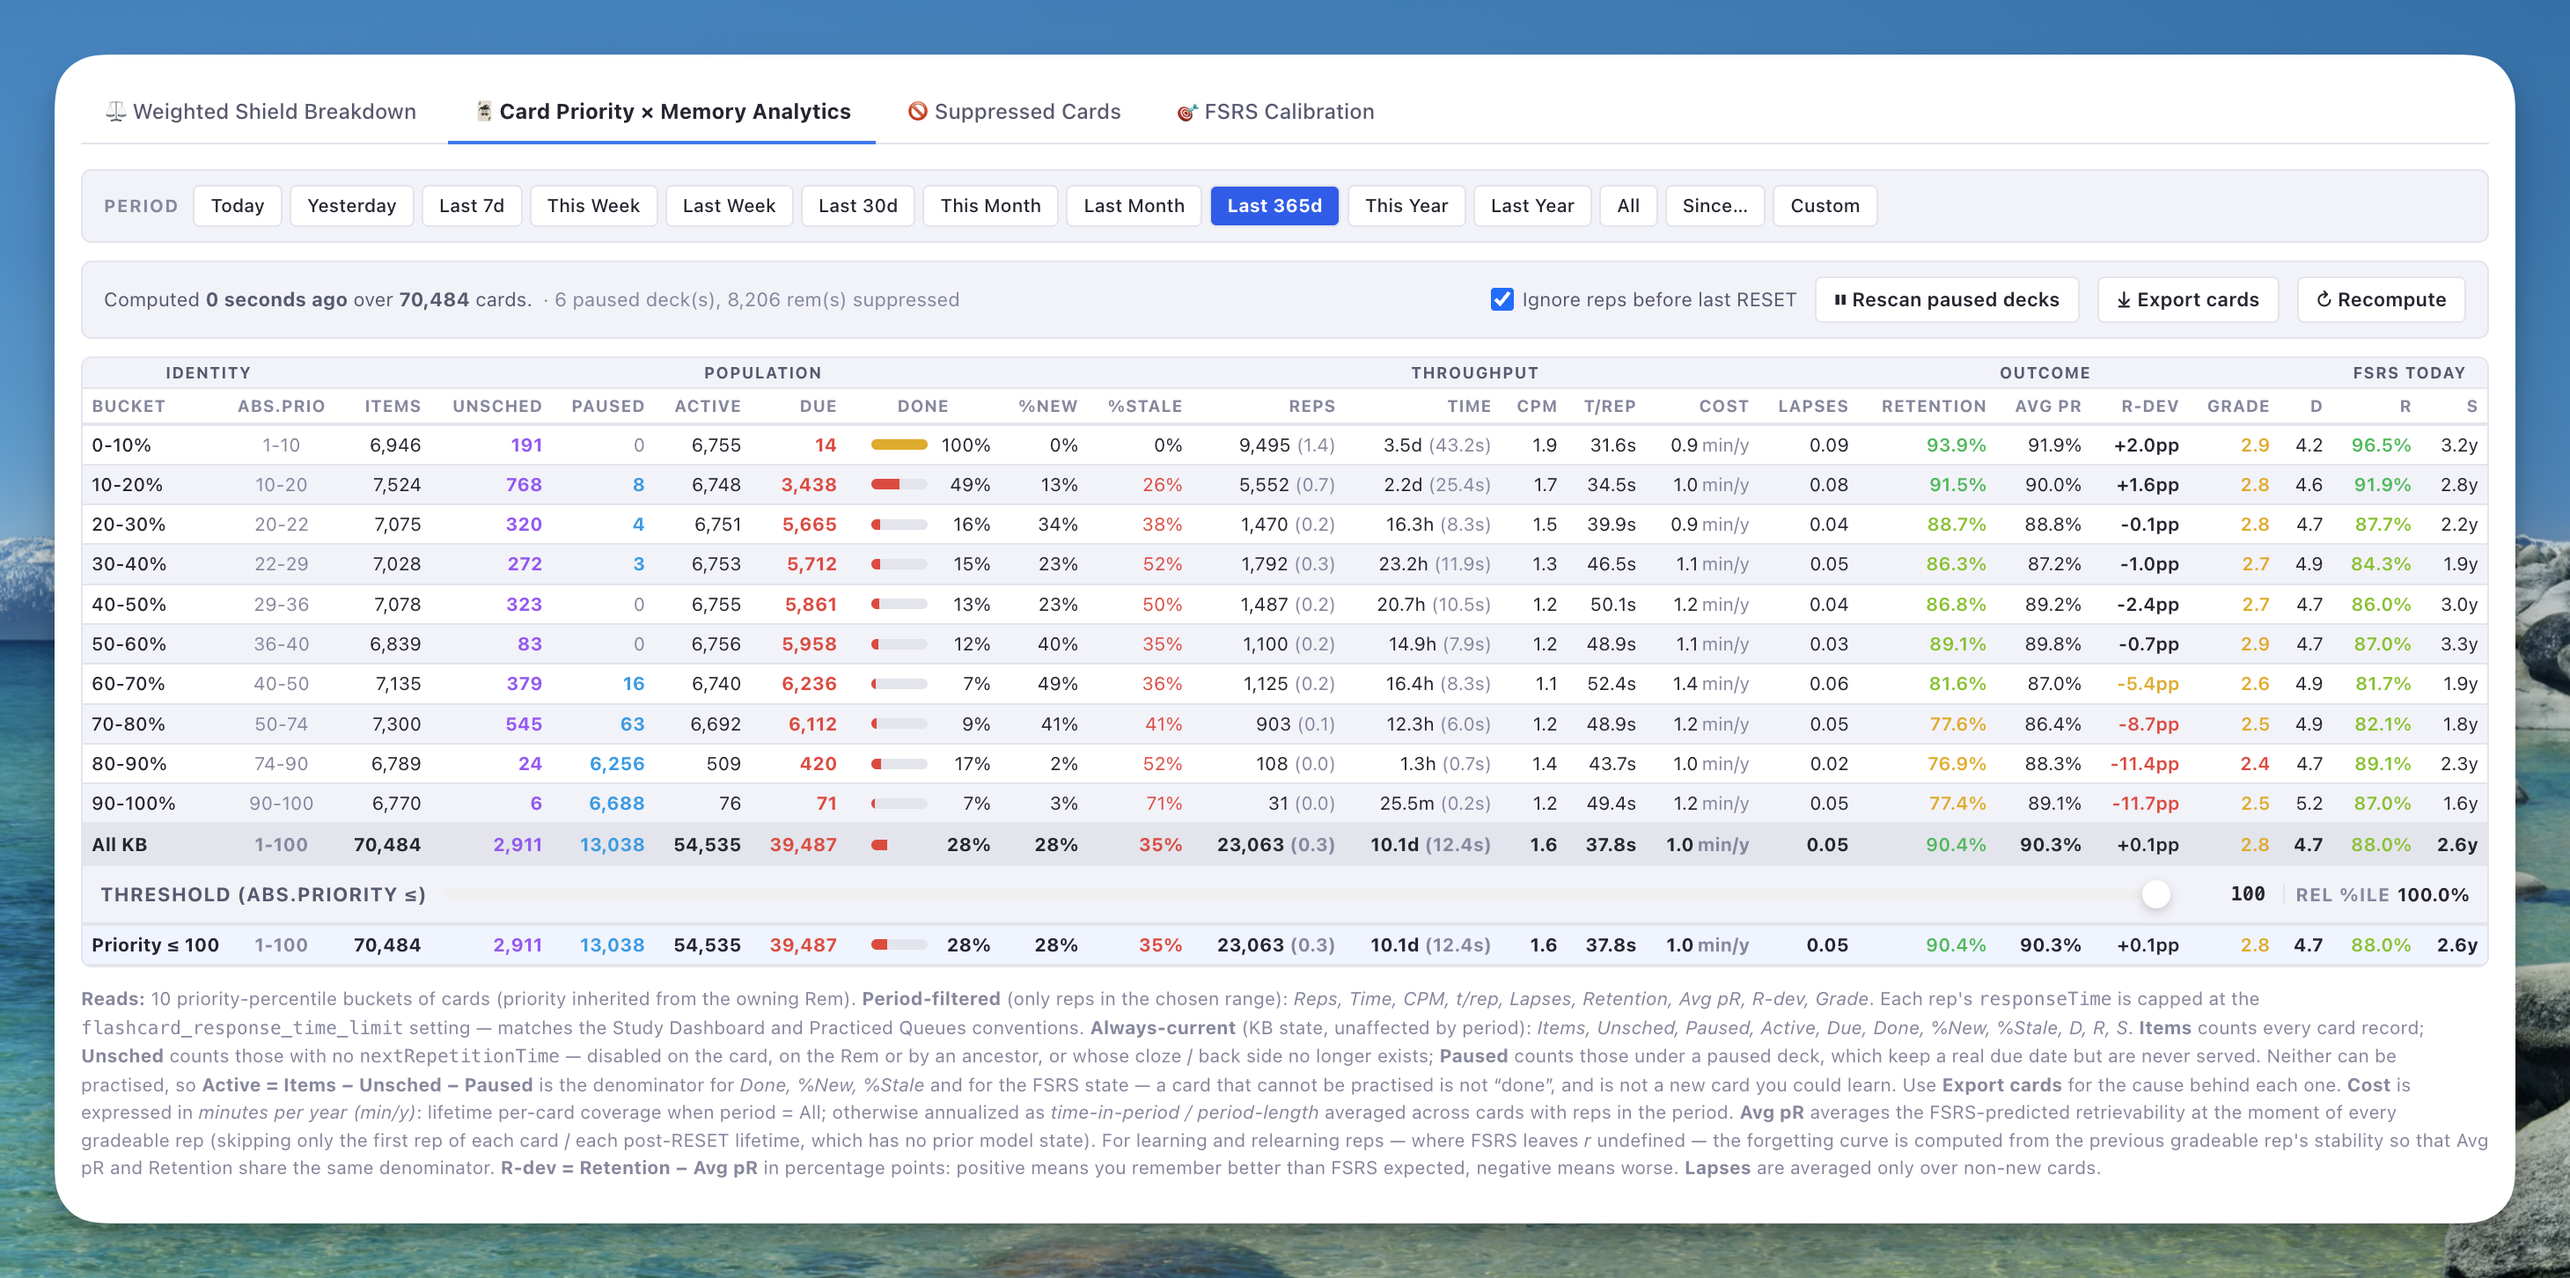
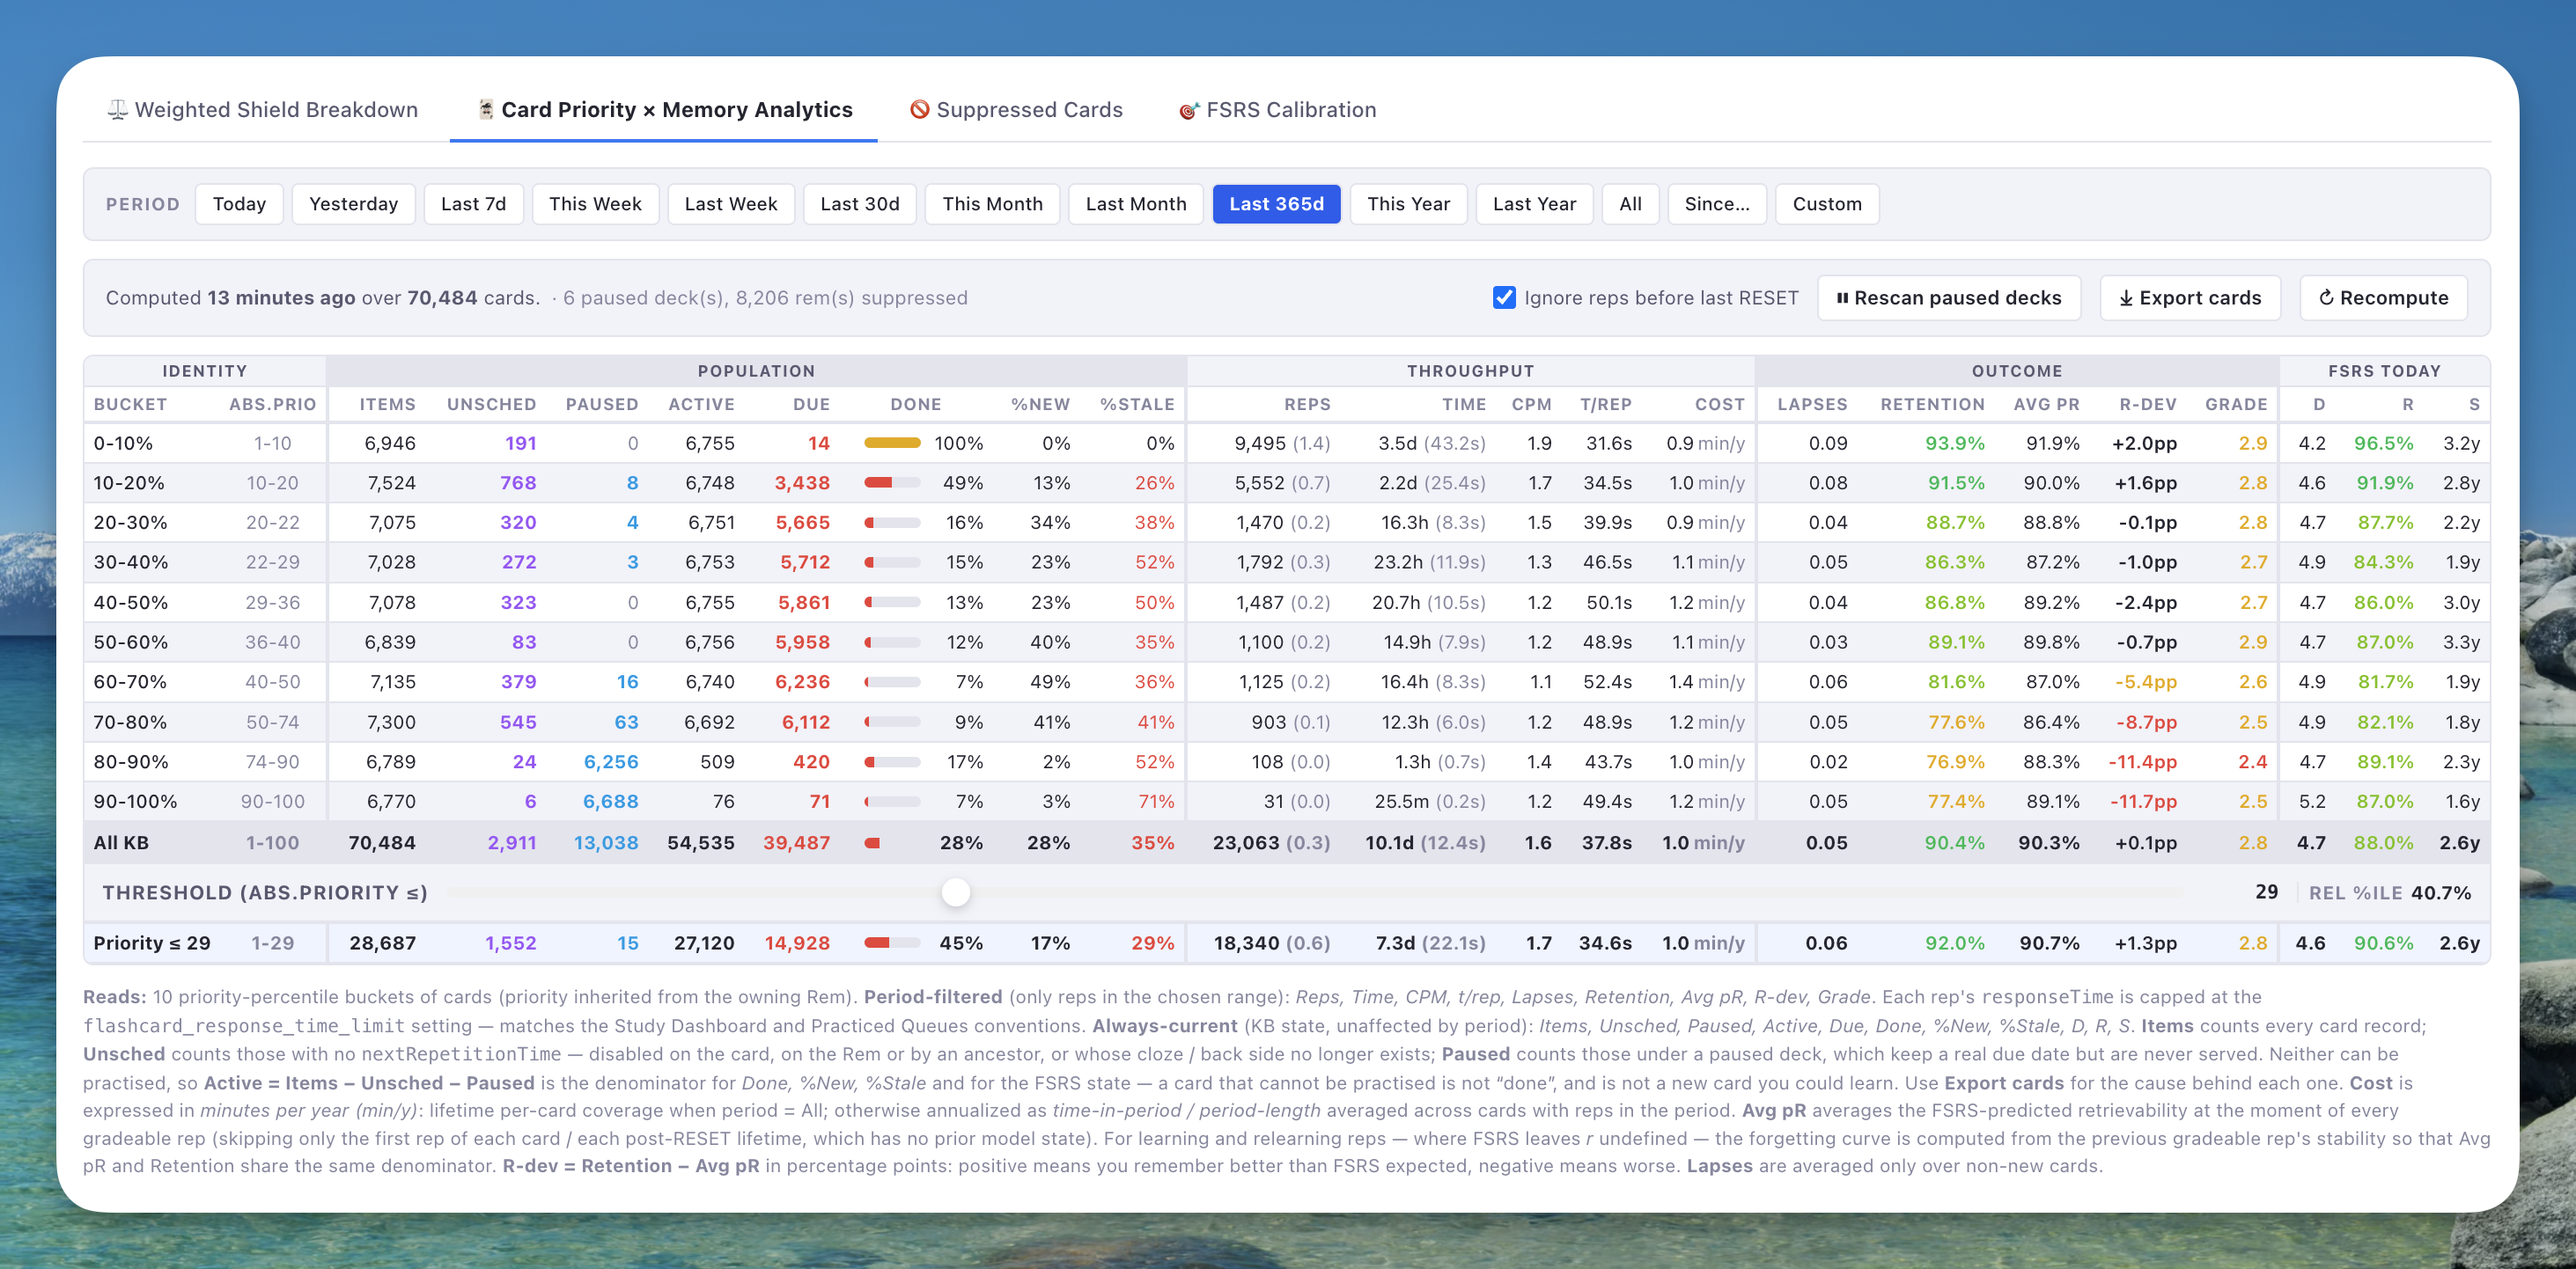
feat: enhance AnalyticsTable with group styling and borders for improved readability

diff --git a/src/components/CardMemoryAnalyticsView.tsx b/src/components/CardMemoryAnalyticsView.tsx
@@ -214,6 +214,19 @@ const headerCellStyle: React.CSSProperties = {
   cursor: 'help',
 };
 
+/**
+ * Where one column group ends and the next begins. The group header row alone
+ * could not carry this: its cells are centred over their span, so a wide group
+ * reads as a label floating somewhere above the numbers. The edge is drawn on
+ * the group header, the column header AND the body cells so a column can be
+ * traced to its group down the whole table.
+ */
+const GROUP_EDGE = '2px solid var(--rn-clr-background-tertiary)';
+
+/** Alternating tints, one per group, so adjacent groups never share a shade. */
+const groupTint = (idx: number): string =>
+  idx % 2 === 0 ? 'var(--rn-clr-background-secondary)' : 'var(--rn-clr-background-tertiary)';
+
 const groupHeaderStyle: React.CSSProperties = {
   padding: '3px 5px',
   fontSize: '9px',
@@ -312,7 +325,7 @@ function BucketRow({
         {b.priorityRange}
       </td>
       {/* Population */}
-      <td style={cellStyle}>{fmtInt(b.cards)}</td>
+      <td style={{ ...cellStyle, borderLeft: GROUP_EDGE }}>{fmtInt(b.cards)}</td>
       <td
         style={{
           ...cellStyle,
@@ -365,7 +378,7 @@ function BucketRow({
         {fmtPct(b.stalePct, 0)}
       </td>
       {/* Throughput */}
-      <td style={cellStyle}>
+      <td style={{ ...cellStyle, borderLeft: GROUP_EDGE }}>
         {fmtInt(b.totReps)}{' '}
         <span style={{ color: 'var(--rn-clr-content-tertiary)' }}>({fmtNum(b.avgReps, 1)})</span>
       </td>
@@ -380,7 +393,7 @@ function BucketRow({
         <span style={{ color: 'var(--rn-clr-content-tertiary)', marginLeft: '2px' }}>min/y</span>
       </td>
       {/* Outcome */}
-      <td style={cellStyle}>{fmtNum(b.avgLapses, 2)}</td>
+      <td style={{ ...cellStyle, borderLeft: GROUP_EDGE }}>{fmtNum(b.avgLapses, 2)}</td>
       <td style={{ ...cellStyle, color: retentionColor(b.retention), fontWeight: 600 }}>
         {fmtPct(b.retention, 1)}
       </td>
@@ -392,7 +405,7 @@ function BucketRow({
         {fmtNum(b.avgGrade, 1)}
       </td>
       {/* FSRS */}
-      <td style={cellStyle}>{fmtNum(b.avgD, 1)}</td>
+      <td style={{ ...cellStyle, borderLeft: GROUP_EDGE }}>{fmtNum(b.avgD, 1)}</td>
       <td style={{ ...cellStyle, color: retentionColor(b.avgRtoday), fontWeight: 600 }}>
         {fmtPct(b.avgRtoday, 1)}
       </td>
@@ -440,19 +453,59 @@ function AnalyticsTable({ breakdown }: { breakdown: CardAnalyticsBreakdown }) {
         <thead>
           {/* Group header row — spans grouped sub-columns. */}
           <tr>
-            <th style={groupHeaderStyle} colSpan={2} title={GROUP_TOOLTIPS.identity}>
+            <th
+              style={{
+                ...groupHeaderStyle,
+                background: groupTint(0),
+                
+              }}
+              colSpan={2}
+              title={GROUP_TOOLTIPS.identity}
+            >
               Identity
             </th>
-            <th style={groupHeaderStyle} colSpan={8} title={GROUP_TOOLTIPS.population}>
+            <th
+              style={{
+                ...groupHeaderStyle,
+                background: groupTint(1),
+                borderLeft: GROUP_EDGE,
+              }}
+              colSpan={8}
+              title={GROUP_TOOLTIPS.population}
+            >
               Population
             </th>
-            <th style={groupHeaderStyle} colSpan={5} title={GROUP_TOOLTIPS.throughput}>
+            <th
+              style={{
+                ...groupHeaderStyle,
+                background: groupTint(2),
+                borderLeft: GROUP_EDGE,
+              }}
+              colSpan={5}
+              title={GROUP_TOOLTIPS.throughput}
+            >
               Throughput
             </th>
-            <th style={groupHeaderStyle} colSpan={6} title={GROUP_TOOLTIPS.outcome}>
+            <th
+              style={{
+                ...groupHeaderStyle,
+                background: groupTint(3),
+                borderLeft: GROUP_EDGE,
+              }}
+              colSpan={5}
+              title={GROUP_TOOLTIPS.outcome}
+            >
               Outcome
             </th>
-            <th style={groupHeaderStyle} colSpan={3} title={GROUP_TOOLTIPS.fsrsToday}>
+            <th
+              style={{
+                ...groupHeaderStyle,
+                background: groupTint(4),
+                borderLeft: GROUP_EDGE,
+              }}
+              colSpan={3}
+              title={GROUP_TOOLTIPS.fsrsToday}
+            >
               FSRS today
             </th>
           </tr>
@@ -470,7 +523,7 @@ function AnalyticsTable({ breakdown }: { breakdown: CardAnalyticsBreakdown }) {
             >
               Abs.Prio
             </th>
-            <th style={headerCellStyle} title={COL_TOOLTIPS.items}>
+            <th style={{ ...headerCellStyle, borderLeft: GROUP_EDGE }} title={COL_TOOLTIPS.items}>
               Items
             </th>
             <th style={headerCellStyle} title={COL_TOOLTIPS.unsched}>
@@ -494,7 +547,7 @@ function AnalyticsTable({ breakdown }: { breakdown: CardAnalyticsBreakdown }) {
             <th style={headerCellStyle} title={COL_TOOLTIPS.pctStale}>
               %Stale
             </th>
-            <th style={headerCellStyle} title={COL_TOOLTIPS.reps}>
+            <th style={{ ...headerCellStyle, borderLeft: GROUP_EDGE }} title={COL_TOOLTIPS.reps}>
               Reps
             </th>
             <th style={headerCellStyle} title={COL_TOOLTIPS.time}>
@@ -509,7 +562,7 @@ function AnalyticsTable({ breakdown }: { breakdown: CardAnalyticsBreakdown }) {
             <th style={headerCellStyle} title={COL_TOOLTIPS.cost}>
               Cost
             </th>
-            <th style={headerCellStyle} title={COL_TOOLTIPS.lapses}>
+            <th style={{ ...headerCellStyle, borderLeft: GROUP_EDGE }} title={COL_TOOLTIPS.lapses}>
               Lapses
             </th>
             <th style={headerCellStyle} title={COL_TOOLTIPS.retention}>
@@ -524,7 +577,7 @@ function AnalyticsTable({ breakdown }: { breakdown: CardAnalyticsBreakdown }) {
             <th style={headerCellStyle} title={COL_TOOLTIPS.grade}>
               Grade
             </th>
-            <th style={headerCellStyle} title={COL_TOOLTIPS.d}>
+            <th style={{ ...headerCellStyle, borderLeft: GROUP_EDGE }} title={COL_TOOLTIPS.d}>
               D
             </th>
             <th style={headerCellStyle} title={COL_TOOLTIPS.r}>
